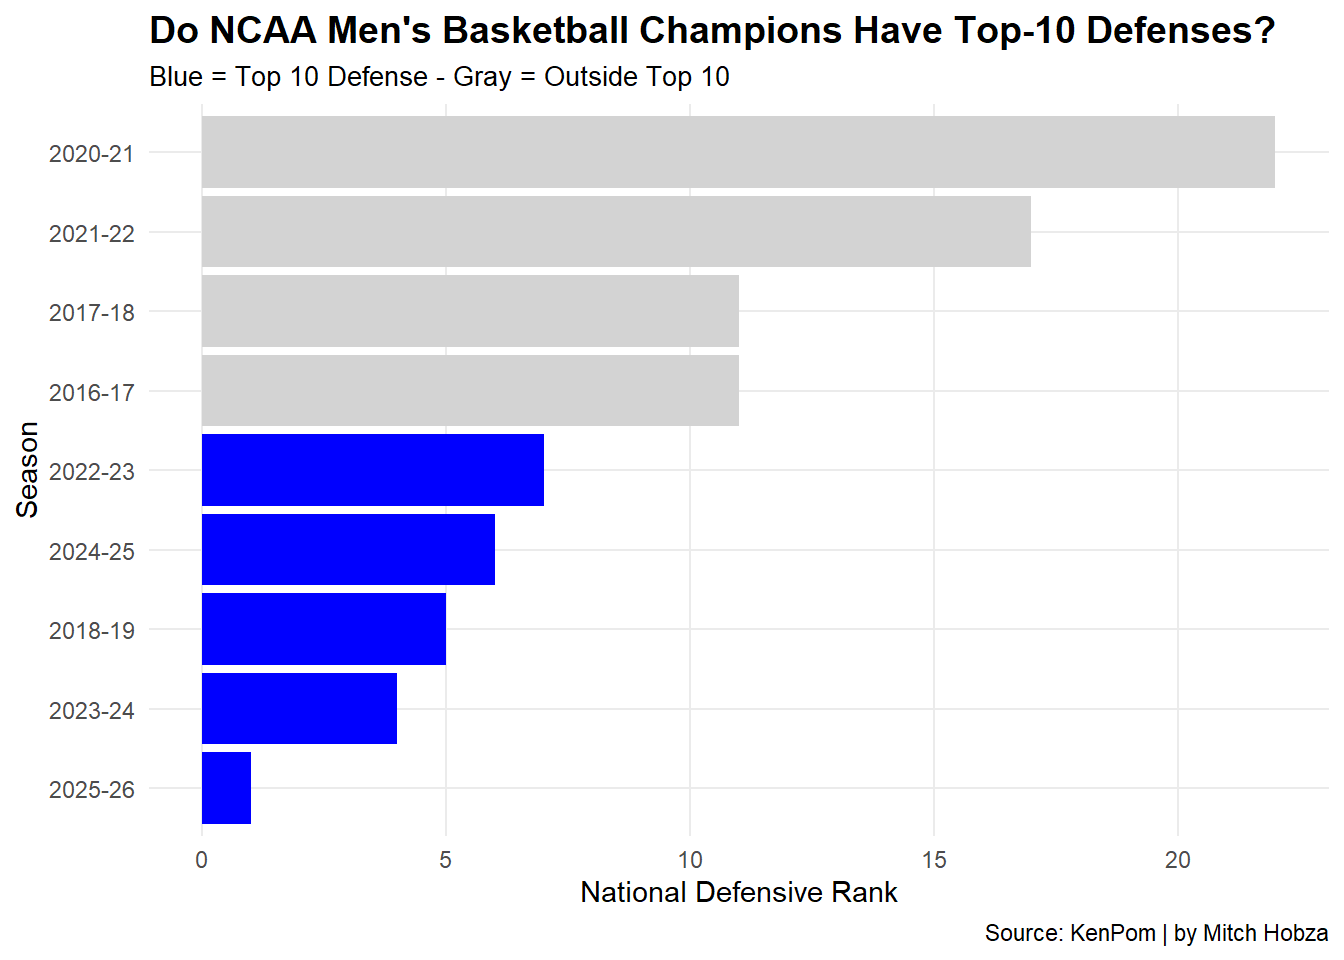
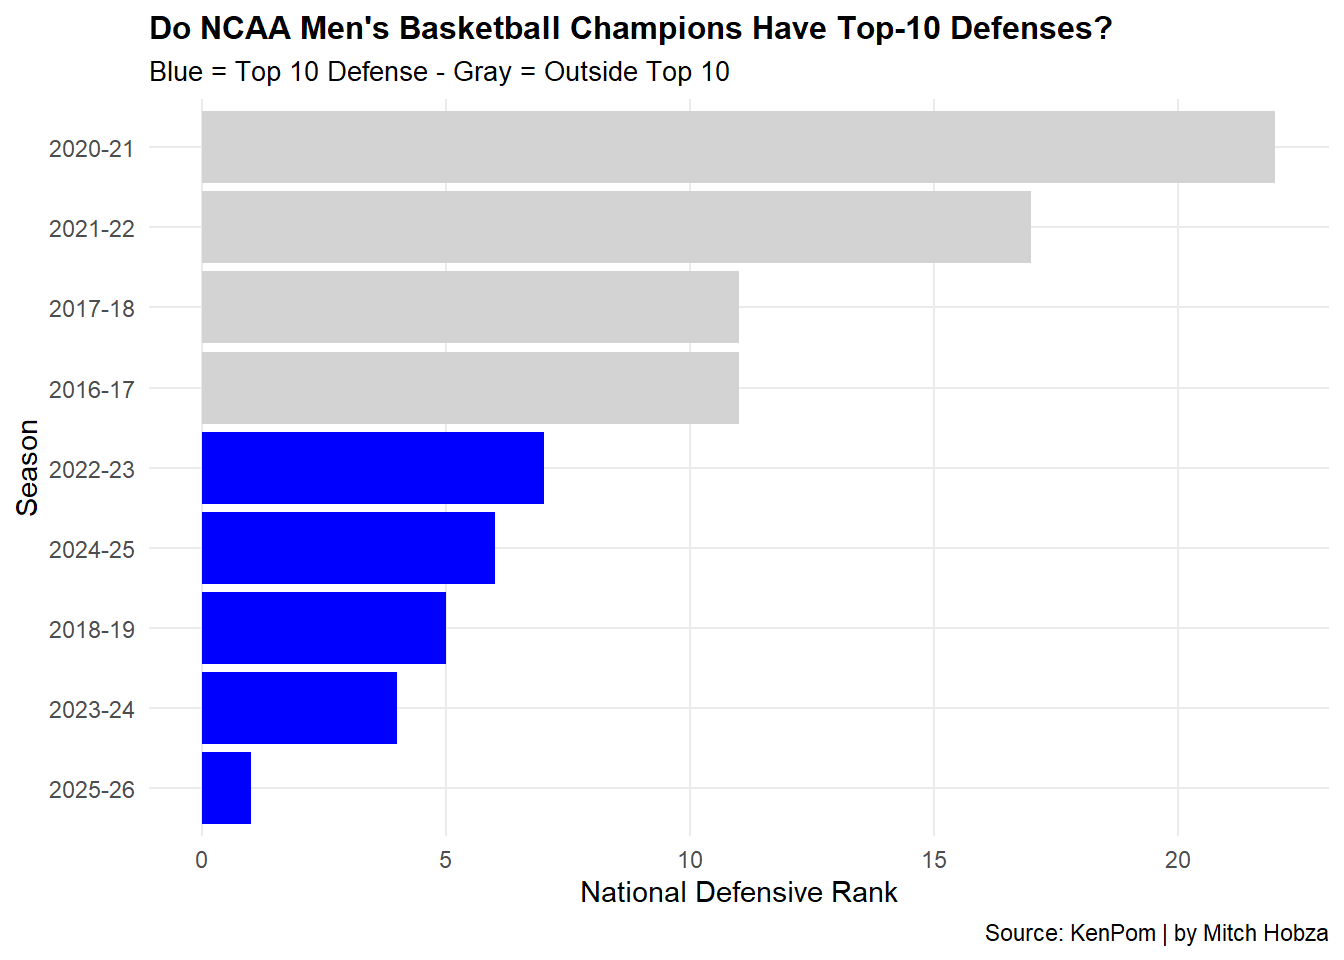
changes

diff --git a/posts/does-defense-win-championships/index.html b/posts/does-defense-win-championships/index.html
@@ -240,7 +240,7 @@ pre > code.sourceCode > span > a:first-child::before { text-decoration: underlin
 <span id="cb1-44"><a href="#cb1-44" aria-hidden="true" tabindex="-1"></a>  )<span class="sc">+</span></span>
 <span id="cb1-45"><a href="#cb1-45" aria-hidden="true" tabindex="-1"></a>  <span class="fu">theme_minimal</span>()<span class="sc">+</span></span>
 <span id="cb1-46"><a href="#cb1-46" aria-hidden="true" tabindex="-1"></a>  <span class="fu">theme</span>(</span>
-<span id="cb1-47"><a href="#cb1-47" aria-hidden="true" tabindex="-1"></a>    <span class="at">plot.title=</span><span class="fu">element_text</span>(<span class="at">size=</span><span class="dv">14</span>, <span class="at">face=</span><span class="st">"bold"</span>),</span>
+<span id="cb1-47"><a href="#cb1-47" aria-hidden="true" tabindex="-1"></a>    <span class="at">plot.title=</span><span class="fu">element_text</span>(<span class="at">size=</span><span class="dv">12</span>, <span class="at">face=</span><span class="st">"bold"</span>),</span>
 <span id="cb1-48"><a href="#cb1-48" aria-hidden="true" tabindex="-1"></a>    <span class="at">plot.subtitle=</span><span class="fu">element_text</span>(<span class="at">size=</span><span class="dv">10</span>),</span>
 <span id="cb1-49"><a href="#cb1-49" aria-hidden="true" tabindex="-1"></a>    <span class="at">panel.grid.minor=</span><span class="fu">element_blank</span>()</span>
 <span id="cb1-50"><a href="#cb1-50" aria-hidden="true" tabindex="-1"></a>  )</span></code></pre></div><button title="Copy to Clipboard" class="code-copy-button"><i class="bi"></i></button></div>
@@ -291,13 +291,18 @@ pre > code.sourceCode > span > a:first-child::before { text-decoration: underlin
 <span id="cb2-32"><a href="#cb2-32" aria-hidden="true" tabindex="-1"></a>    <span class="fu">aes</span>(<span class="at">x=</span>Adjusted_Offensive_Rating, <span class="at">y=</span>Adjusted_Defensive_Rating, <span class="at">label=</span>Season)</span>
 <span id="cb2-33"><a href="#cb2-33" aria-hidden="true" tabindex="-1"></a>  ) <span class="sc">+</span></span>
 <span id="cb2-34"><a href="#cb2-34" aria-hidden="true" tabindex="-1"></a>  <span class="fu">labs</span>(</span>
-<span id="cb2-35"><a href="#cb2-35" aria-hidden="true" tabindex="-1"></a>    <span class="at">title=</span><span class="st">"Offense vs Defense of NCAA Champions"</span>,</span>
+<span id="cb2-35"><a href="#cb2-35" aria-hidden="true" tabindex="-1"></a>    <span class="at">title=</span><span class="st">"Can Great Offense Make Up For Average Defense?"</span>,</span>
 <span id="cb2-36"><a href="#cb2-36" aria-hidden="true" tabindex="-1"></a>    <span class="at">subtitle=</span><span class="st">"Champions compared to other D1 teams"</span>,</span>
 <span id="cb2-37"><a href="#cb2-37" aria-hidden="true" tabindex="-1"></a>    <span class="at">x=</span><span class="st">"Adjusted Offensive Rating"</span>,</span>
 <span id="cb2-38"><a href="#cb2-38" aria-hidden="true" tabindex="-1"></a>    <span class="at">y=</span><span class="st">"Adjusted Defensive Rating"</span>,</span>
 <span id="cb2-39"><a href="#cb2-39" aria-hidden="true" tabindex="-1"></a>    <span class="at">caption=</span><span class="st">"Source: KenPom | by Mitch Hobza"</span>,</span>
 <span id="cb2-40"><a href="#cb2-40" aria-hidden="true" tabindex="-1"></a>  ) <span class="sc">+</span></span>
-<span id="cb2-41"><a href="#cb2-41" aria-hidden="true" tabindex="-1"></a>  <span class="fu">theme_minimal</span>()</span></code></pre></div><button title="Copy to Clipboard" class="code-copy-button"><i class="bi"></i></button></div>
+<span id="cb2-41"><a href="#cb2-41" aria-hidden="true" tabindex="-1"></a>  <span class="fu">theme_minimal</span>()<span class="sc">+</span></span>
+<span id="cb2-42"><a href="#cb2-42" aria-hidden="true" tabindex="-1"></a>  <span class="fu">theme</span>(</span>
+<span id="cb2-43"><a href="#cb2-43" aria-hidden="true" tabindex="-1"></a>    <span class="at">plot.title=</span><span class="fu">element_text</span>(<span class="at">size=</span><span class="dv">14</span>, <span class="at">face=</span><span class="st">"bold"</span>),</span>
+<span id="cb2-44"><a href="#cb2-44" aria-hidden="true" tabindex="-1"></a>    <span class="at">plot.subtitle=</span><span class="fu">element_text</span>(<span class="at">size=</span><span class="dv">10</span>),</span>
+<span id="cb2-45"><a href="#cb2-45" aria-hidden="true" tabindex="-1"></a>    <span class="at">panel.grid.minor=</span><span class="fu">element_blank</span>()</span>
+<span id="cb2-46"><a href="#cb2-46" aria-hidden="true" tabindex="-1"></a>  )</span></code></pre></div><button title="Copy to Clipboard" class="code-copy-button"><i class="bi"></i></button></div>
 </details>
 <div class="cell-output-display">
 <div>
@@ -394,7 +399,7 @@ pre > code.sourceCode > span > a:first-child::before { text-decoration: underlin
 <span id="cb3-81"><a href="#cb3-81" aria-hidden="true" tabindex="-1"></a>  ) <span class="sc">+</span></span>
 <span id="cb3-82"><a href="#cb3-82" aria-hidden="true" tabindex="-1"></a>  <span class="fu">theme_minimal</span>() <span class="sc">+</span></span>
 <span id="cb3-83"><a href="#cb3-83" aria-hidden="true" tabindex="-1"></a>  <span class="fu">theme</span>(</span>
-<span id="cb3-84"><a href="#cb3-84" aria-hidden="true" tabindex="-1"></a>    <span class="at">plot.title=</span><span class="fu">element_text</span>(<span class="at">size=</span><span class="dv">16</span>, <span class="at">face=</span><span class="st">"bold"</span>),</span>
+<span id="cb3-84"><a href="#cb3-84" aria-hidden="true" tabindex="-1"></a>    <span class="at">plot.title=</span><span class="fu">element_text</span>(<span class="at">size=</span><span class="dv">14</span>, <span class="at">face=</span><span class="st">"bold"</span>),</span>
 <span id="cb3-85"><a href="#cb3-85" aria-hidden="true" tabindex="-1"></a>    <span class="at">plot.subtitle=</span><span class="fu">element_text</span>(<span class="at">size=</span><span class="dv">10</span>),</span>
 <span id="cb3-86"><a href="#cb3-86" aria-hidden="true" tabindex="-1"></a>    <span class="at">panel.grid.minor=</span><span class="fu">element_blank</span>()</span>
 <span id="cb3-87"><a href="#cb3-87" aria-hidden="true" tabindex="-1"></a>  )</span></code></pre></div><button title="Copy to Clipboard" class="code-copy-button"><i class="bi"></i></button></div>

diff --git a/index.html b/index.html
@@ -197,7 +197,7 @@ window.Quarto = {
 
 <div class="quarto-listing quarto-listing-container-default" id="listing-listing">
 <div class="list quarto-listing-default">
[2 lines of base64/hex data omitted]
 <div class="thumbnail"><a href="./posts/does-defense-win-championships/index.html" class="no-external-icon">
 
 <img loading="lazy" src="./posts/does-defense-win-championships/Screenshot 2026-11-13 120849" class="thumbnail-image">
